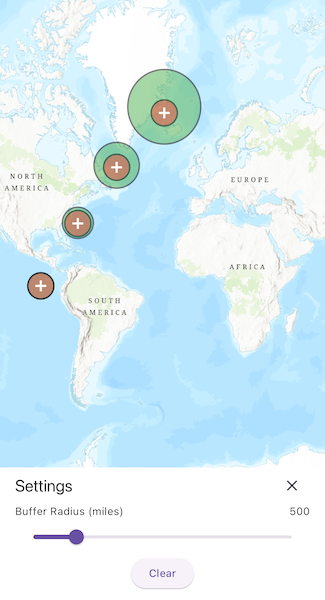
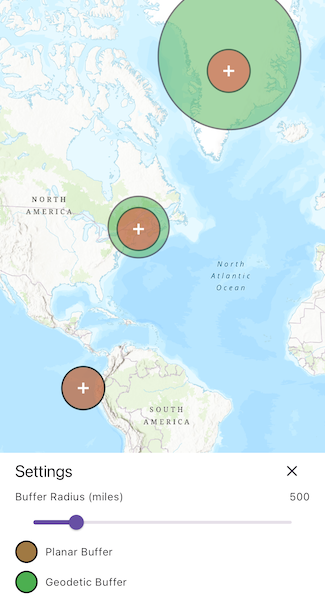
move "Clear" button and add a legend

diff --git a/lib/samples/create_planar_and_geodetic_buffers/create_planar_and_geodetic_buffers_sample.dart b/lib/samples/create_planar_and_geodetic_buffers/create_planar_and_geodetic_buffers_sample.dart
@@ -70,6 +70,11 @@ class _CreatePlanarAndGeodeticBuffersSampleState
                       onPressed: () => setState(() => _settingsVisible = true),
                       child: const Text('Settings'),
                     ),
+                    // A button to clear the buffers.
+                    ElevatedButton(
+                      onPressed: clear,
+                      child: const Text('Clear'),
+                    ),
                   ],
                 ),
               ],
@@ -141,10 +146,46 @@ class _CreatePlanarAndGeodeticBuffersSampleState
               ),
             ],
           ),
-          // A button to clear the buffers.
-          ElevatedButton(
-            onPressed: clear,
-            child: const Text('Clear'),
+          Row(
+            children: [
+              SizedBox(
+                width: 30.0,
+                height: 30.0,
+                child: Container(
+                  decoration: const BoxDecoration(
+                    shape: BoxShape.circle,
+                    color: Colors.green,
+                  ),
+                  child: Container(
+                    decoration: BoxDecoration(
+                      shape: BoxShape.circle,
+                      border: Border.all(color: Colors.black, width: 2.0),
+                      color: Colors.red.withAlpha(127),
+                    ),
+                  ),
+                ),
+              ),
+              const SizedBox(width: 10.0),
+              const Text('Planar Buffer'),
+            ],
+          ),
+          const SizedBox(height: 10.0),
+          Row(
+            children: [
+              SizedBox(
+                width: 30.0,
+                height: 30.0,
+                child: Container(
+                  decoration: BoxDecoration(
+                    shape: BoxShape.circle,
+                    border: Border.all(color: Colors.black, width: 2.0),
+                    color: Colors.green,
+                  ),
+                ),
+              ),
+              const SizedBox(width: 10.0),
+              const Text('Geodetic Buffer'),
+            ],
           ),
         ],
       ),
